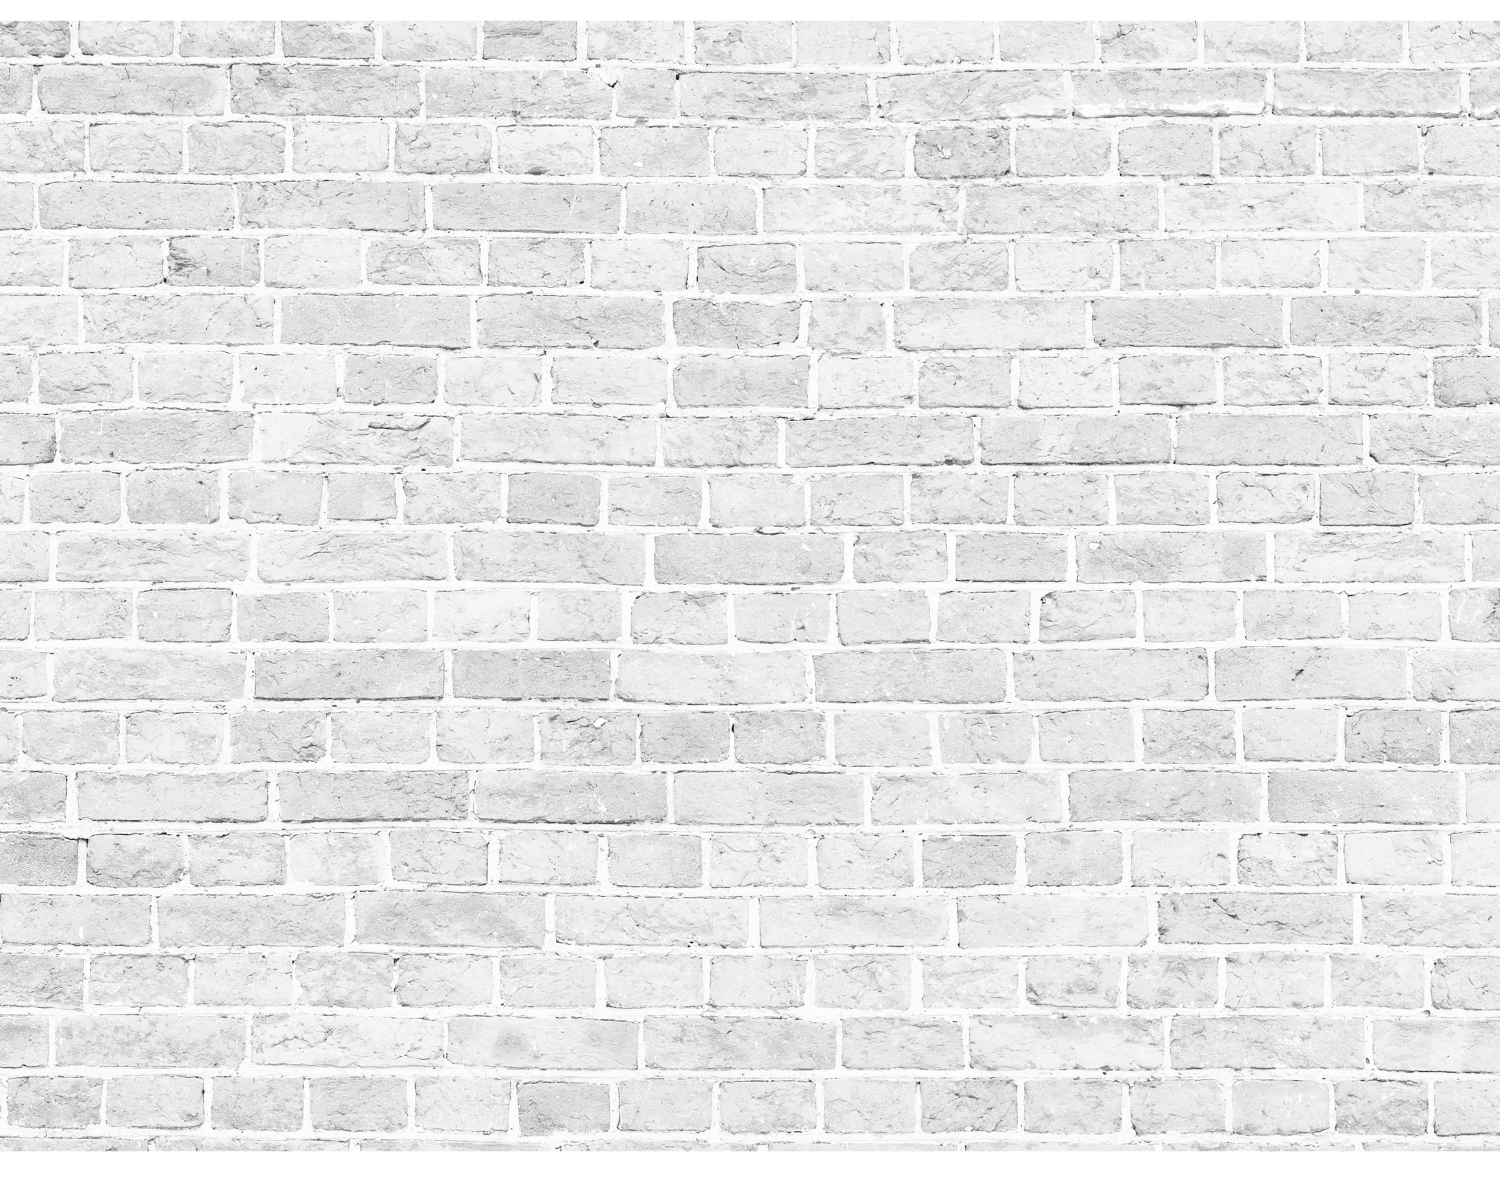
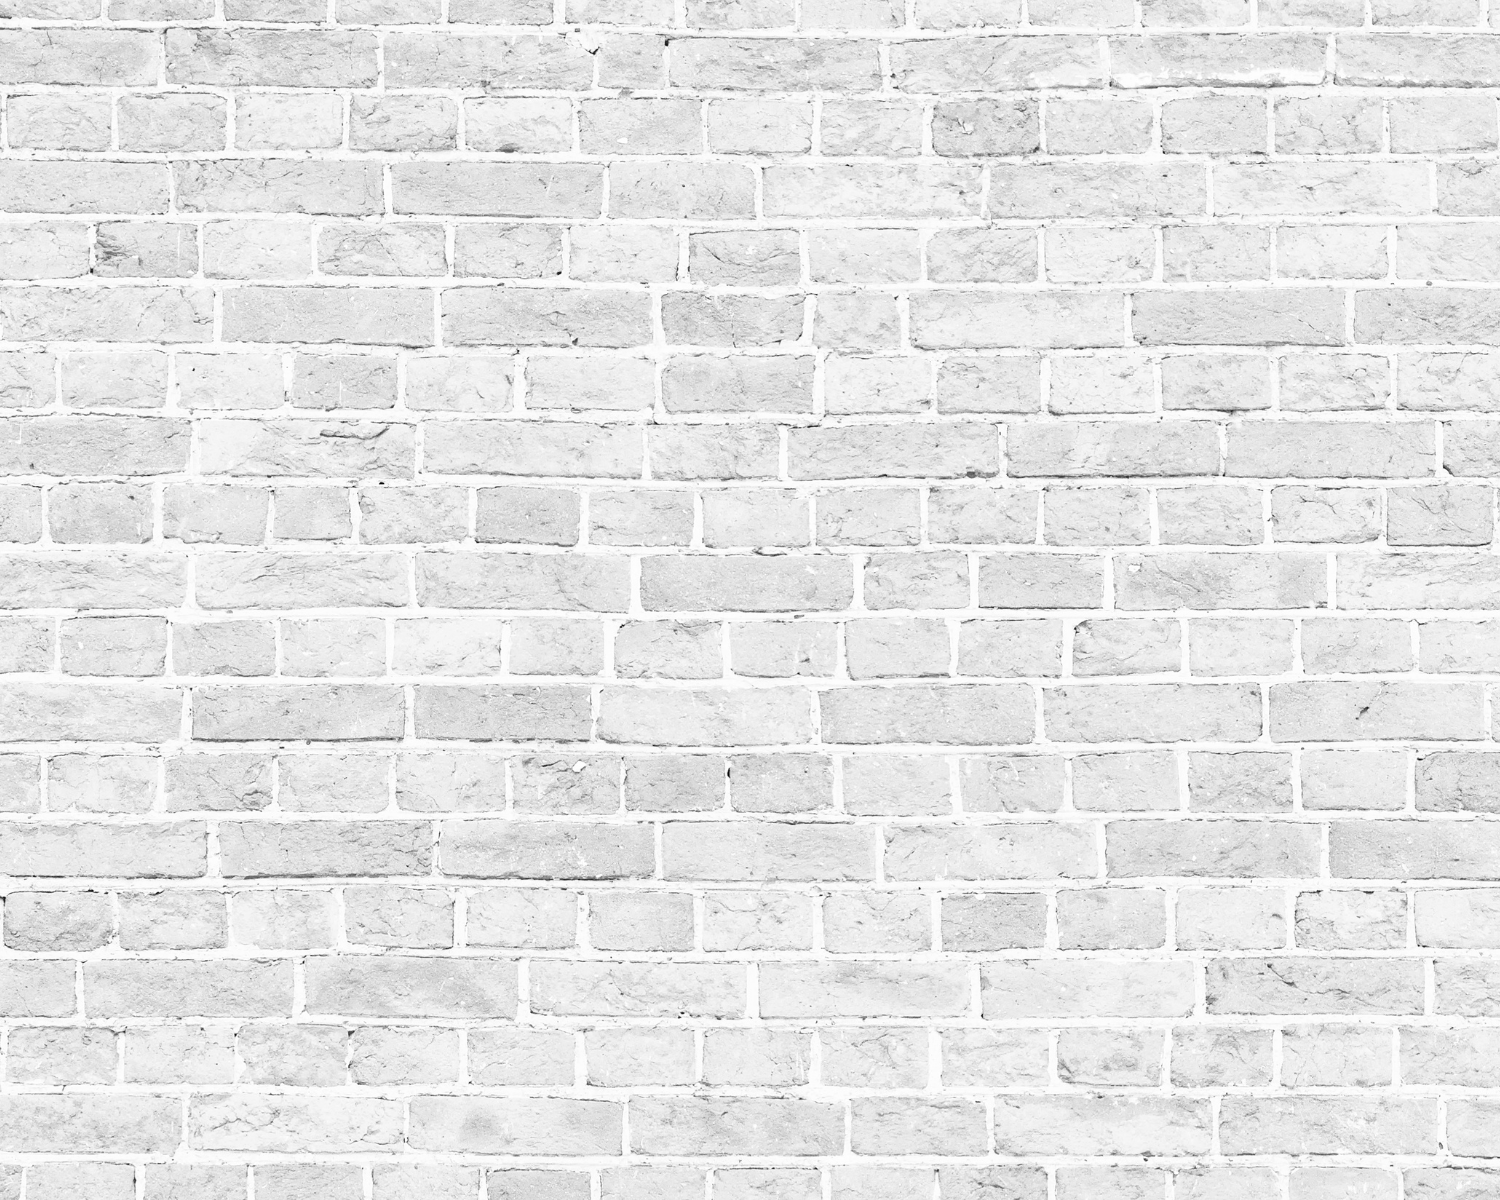
background added, central position

Changed region(s): [[0.0, 0.0, 1.0, 1.0]]

diff --git a/src/pages/Resume/index.js b/src/pages/Resume/index.js
@@ -1,7 +1,7 @@
 import { React, useState } from 'react';
-import { MDBBtn, MDBCard, MDBCardBody, MDBCardImage, MDBCardTitle, MDBCardText, MDBRow, MDBCol, MDBView, MDBCardGroup } from 'mdb-react-ui-kit';
+import { MDBBtn, MDBCard, MDBCardBody, MDBCardImage, MDBCardFooter, MDBCardTitle, MDBCardText, MDBRow, MDBCol, MDBView, MDBCardGroup } from 'mdb-react-ui-kit';
 
-export default function Resume({ }) {
+export default function Resume() {
 
     const [projects] = useState([
 
@@ -36,19 +36,37 @@ export default function Resume({ }) {
     ]);
     return (
         <section className="resume">
-            <MDBCardGroup className='row-cols-1 row-cols-md-3 g-4'>
-            {projects.map((project, i) => (
-                <MDBCard key={project.name} style={{ maxWidth: "20rem" }}>
-                    <MDBCardImage src={require(`../../assets/images/projects/${i}.png`).default} style={{ maxWidth: "20rem" }} />
-                    <MDBCardBody>
-                        <MDBCardText>{project.description}</MDBCardText>
-                    </MDBCardBody>
-                </MDBCard>
-            ))}
+
+            {/* <CardGroup>
+                    {projects.map((project, i) => (
+                        <Card key={project.name} style={{ maxWidth: "18rem" }}>
+                            <Card.Img src={require(`../../assets/images/projects/${i}.png`).default} style={{ maxWidth: "18rem" }} />
+                            <Card.Body>
+                                <Card.Text>{project.description}</Card.Text>
+                            </Card.Body>
+                        </Card>
+                    ))}
+                </CardGroup> */}
+            <MDBCardGroup className='text-center'>
+                {projects.map((project, i) => (
+               
+                        <MDBCard style={{ width: "35rem", margin: "15%" }}>
+                            <MDBCardImage className="img-fluid" src={require(`../../assets/images/projects/${i}.png`).default} style={{ width: '22rem' }} waves />
+                            <MDBCardBody>
+                                <MDBCardTitle>Card title</MDBCardTitle>
+                                <MDBCardText>
+                                    {project.description}
+                                </MDBCardText>
+                                <MDBBtn href="#">MDBBtn</MDBBtn>
+                            </MDBCardBody>
+                        </MDBCard>
+                  
+                ))}
             </MDBCardGroup>
-        
+
+
         </section>
 
-        
+
     )
 }

diff --git a/src/pages/Bio/index.js b/src/pages/Bio/index.js
@@ -1,11 +1,53 @@
 import { React } from 'react';
+import { CardDeck, Card } from 'react-bootstrap';
 
 
 export default function Bio() {
     return (
         <section className="bio">
             <div className="bio-wrapper">
-                Madison
+            <CardDeck>
+  <Card>
+    
+    <Card.Body>
+      <Card.Title>Card title</Card.Title>
+      <Card.Text>
+        This is a wider card with supporting text below as a natural lead-in to
+        additional content. This content is a little bit longer.
+      </Card.Text>
+    </Card.Body>
+    <Card.Footer>
+      <small className="text-muted">Last updated 3 mins ago</small>
+    </Card.Footer>
+  </Card>
+  <Card>
+  
+    <Card.Body>
+      <Card.Title>Card title</Card.Title>
+      <Card.Text>
+        This card has supporting text below as a natural lead-in to additional
+        content.{' '}
+      </Card.Text>
+    </Card.Body>
+    <Card.Footer>
+      <small className="text-muted">Last updated 3 mins ago</small>
+    </Card.Footer>
+  </Card>
+  <Card>
+ 
+    <Card.Body>
+      <Card.Title>Card title</Card.Title>
+      <Card.Text>
+        This is a wider card with supporting text below as a natural lead-in to
+        additional content. This card has even longer content than the first to
+        show that equal height action.
+      </Card.Text>
+    </Card.Body>
+    <Card.Footer>
+      <small className="text-muted">Last updated 3 mins ago</small>
+    </Card.Footer>
+  </Card>
+</CardDeck>
             </div>
         </section>
     )

diff --git a/src/pages/Home/index.js b/src/pages/Home/index.js
@@ -22,22 +22,23 @@ export default function HomePage() {
 
     return (
         <section className="hero d-flex justify-content-center">
-            
-                    <div className="text-center">
-              
-                        <img className='img-fluid hero-img' src={logo} alt='Maya Santiago Logo' />
-                   
-                        <div className="hero-btns">
-                            <ul>
-                                {pages.map((page) => (
-                                    <li className="hero-btn" key={page.name}>
-                                        <Link to={page.link} >{page.name}</Link>
-                                    </li>
-                                ))}
-                            </ul>
-                        </div>
+            <div className="hero-wrapper">
+                <div className="text-center">
+
+                    <img className='img-fluid hero-img' src={logo} alt='Maya Santiago Logo' />
+
+                    <div className="hero-btns">
+                        <ul>
+                            {pages.map((page) => (
+                                <li className="hero-btn" key={page.name}>
+                                    <Link to={page.link} >{page.name}</Link>
+                                </li>
+                            ))}
+                        </ul>
                     </div>
-           
+                </div>
+            </div>
+
         </section>
     )
 }

diff --git a/src/index.css b/src/index.css
@@ -4,15 +4,25 @@ body {
 }
 
 .hero {
-  height: 80vh;
-  background-image: url("./assets/images/brick.png");
+  height: 100vh;
+}
+
+.hero-wrapper {
+  display: -webkit-box;
+  display: -ms-flexbox;
+  display: flex;
+  -webkit-box-pack: center;
+      -ms-flex-pack: center;
+          justify-content: center;
+  background-position: center;
+  background-size: cover;
+  background-image: url("./assets/images/test4.png");
   background-repeat: no-repeat;
-  background-size: 100%;
+  height: 100%;
 }
 
 .hero-img {
-  padding-left: 30%;
-  opacity: .9;
+  padding-left: 15%;
 }
 
 .hero-btns {
@@ -40,12 +50,31 @@ body {
 }
 
 .hero-btn a:hover {
-  color: #a4d0e6;
+  color: #bdb111;
 }
 
 .hero-btn:hover {
   -webkit-animation: neon 1.5s ease-in-out infinite alternate;
           animation: neon 1.5s ease-in-out infinite alternate;
+}
+
+.resume {
+  display: -webkit-box;
+  display: -ms-flexbox;
+  display: flex;
+  -webkit-box-pack: center;
+      -ms-flex-pack: center;
+          justify-content: center;
+  -ms-flex-line-pack: center;
+      align-content: center;
+  text-align: center;
+}
+
+.resume .card {
+  padding-top: 15%;
+  background-image: url("./assets/images/foil.png");
+  background-size: cover;
+  background-position: center;
 }
 
 @-webkit-keyframes neon {

diff --git a/src/index.scss b/src/index.scss
@@ -8,15 +8,23 @@ body {
     margin: 0;
 }
 .hero {
-    height: 80vh;
-    background-image: url('./assets/images/brick.png');
-    background-repeat: no-repeat;
-    background-size:  100%;
+    height: 100vh;
+    
+    &-wrapper {
+        display: flex;
+        justify-content: center;
+        background-position: center;
+        background-size: cover;
+        background-image: url('./assets/images/test4.png');
+        background-repeat: no-repeat;
+        height: 100%;
+    }
+    
 
 
     &-img {
-        padding-left: 30%;
-        opacity: .9;
+        padding-left: 15%;
+       
     }
  
 
@@ -42,7 +50,7 @@ body {
 
           &:hover {
 
-              color: #a4d0e6;
+              color: #bdb111;
           }
           
         }
@@ -52,6 +60,20 @@ body {
     }
   
 }
+
+.resume {
+    display: flex;
+    justify-content: center;
+    align-content: center;
+    text-align: center;
+    
+        .card {
+            padding-top: 15%;
+            background-image: url('./assets/images/foil.png');
+            background-size: cover;
+            background-position: center;
+        }
+    }
 
 
 @keyframes neon {
